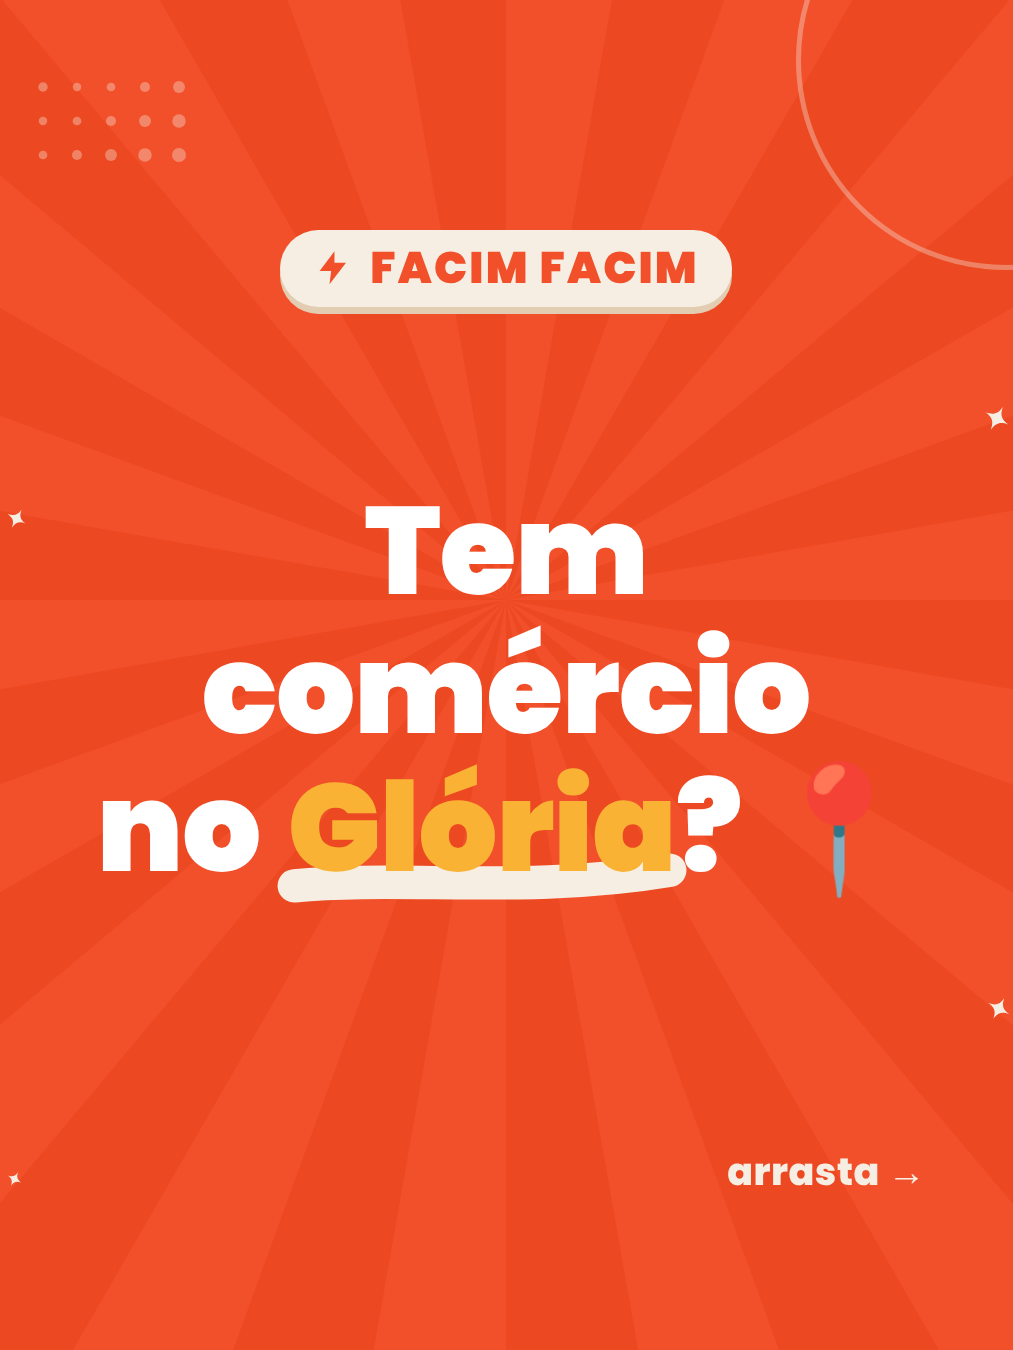
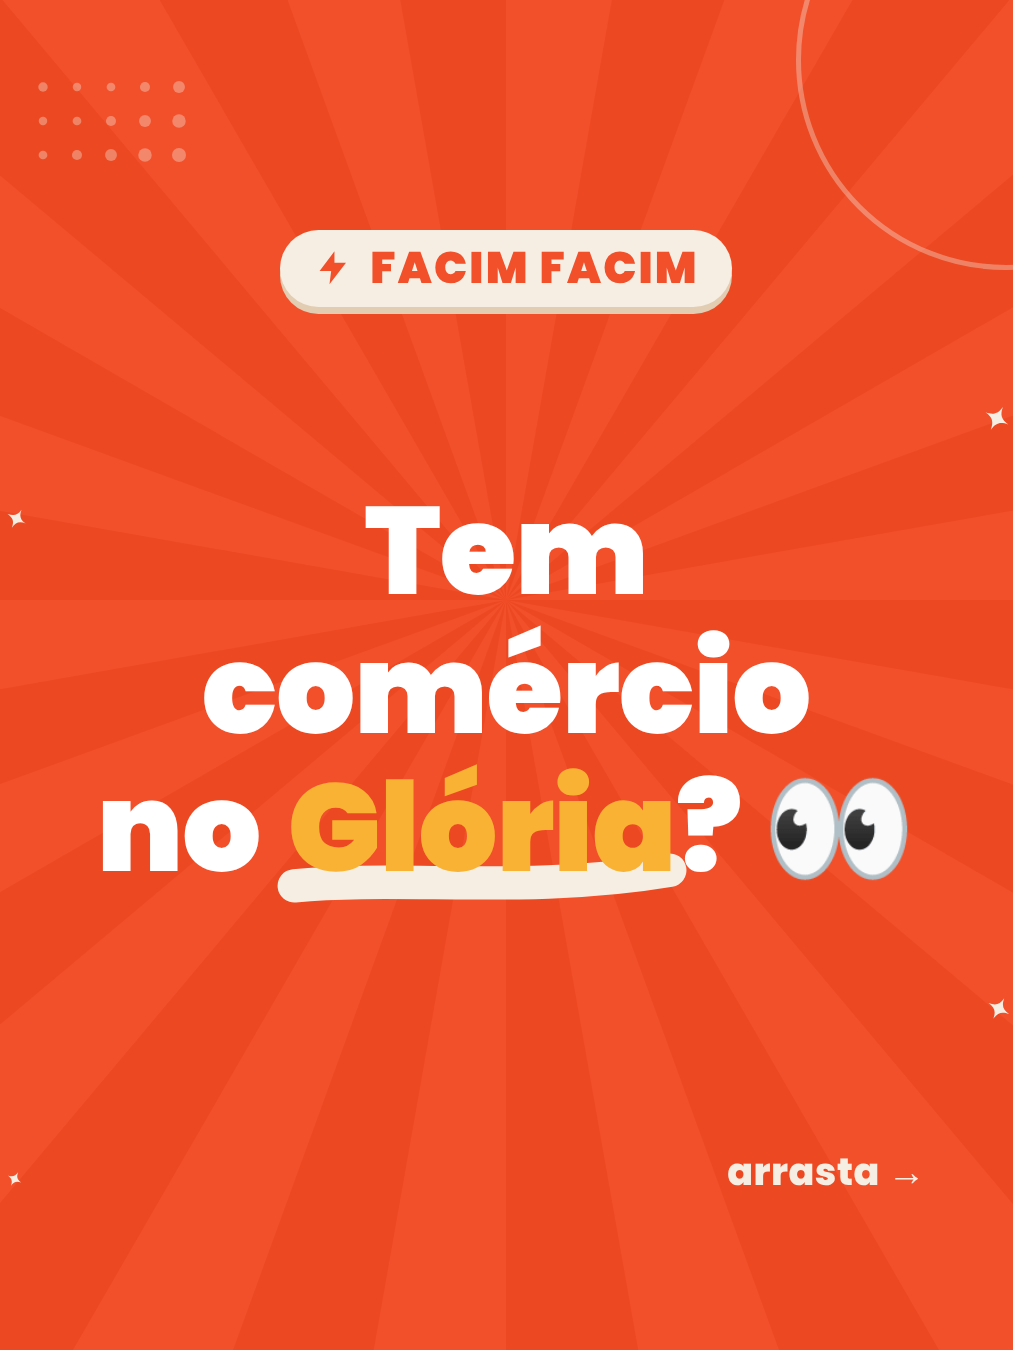
C5: emoji da capa 📍 → 👀 + regra de emojis nas capas coral
- Slide 1, prévia 3:4 e simulação da grade renderizados de novo
- README: capas coral usam só emojis claros ou amarelos, nunca vermelhos ou laranja

Claude-Session: https://claude.ai/code/session_01SgbibnpZEJbmKHHrtdPjiv

Changed region(s): [[0.7345, 0.56, 0.9181, 0.6533]]

diff --git a/README.md b/README.md
@@ -207,6 +207,7 @@ Arte estática 1080×1350 (4:5), um PNG por slide, renderizada pelo mesmo pipeli
 - **capa:** chip, pergunta grande e "arrasta →". A palavra-chave vai entre `*asteriscos*`. Dois estilos, escolhidos pelo campo opcional `"capa": "coral" | "creme"` do JSON:
   - **coral** (padrão a partir do **C5**; Dicionário Mineiro fica creme, para a grade ter ritmo): fundo `#F2502B` com raios `#E7431C` sutis, título branco, palavra de destaque amarela `#F9B233` com marcador creme `#F6EEE2`, chip invertido (fundo creme, texto coral), "arrasta →" creme, pontinhos e arco creme com baixa opacidade. Margem lateral ≥ 120 px.
   - **creme** (C1–C4, já publicados ou programados; padrão nos números < 5): palavra em coral com marcador amarelo, margem ≥ 114 px. Não renderizar de novo.
+  **Regra para capas coral:** usar só emojis claros ou amarelos (ex.: 👀 😂 🤔 💛 ✨), nunca vermelhos ou laranja (somem no coral; o 📍 e o 🏪 foram descartados no C5).
   Só a capa muda: slides de conteúdo e final são iguais nos dois estilos.
 - **conteudo:** título curto + texto (até ~25 palavras; o script avisa se passar) + ícone, num card branco. Tem progresso discreto (2/6) no canto. `icone` (opcional): `navegador`, `gratis`, `cadastro`, `cidade`, `categoria`, `loja`, `entrega`, `calendario`.
 - **final:** "Manda pra quem…" grande ("Manda" em coral) + linha de apoio em `texto` + logo.
